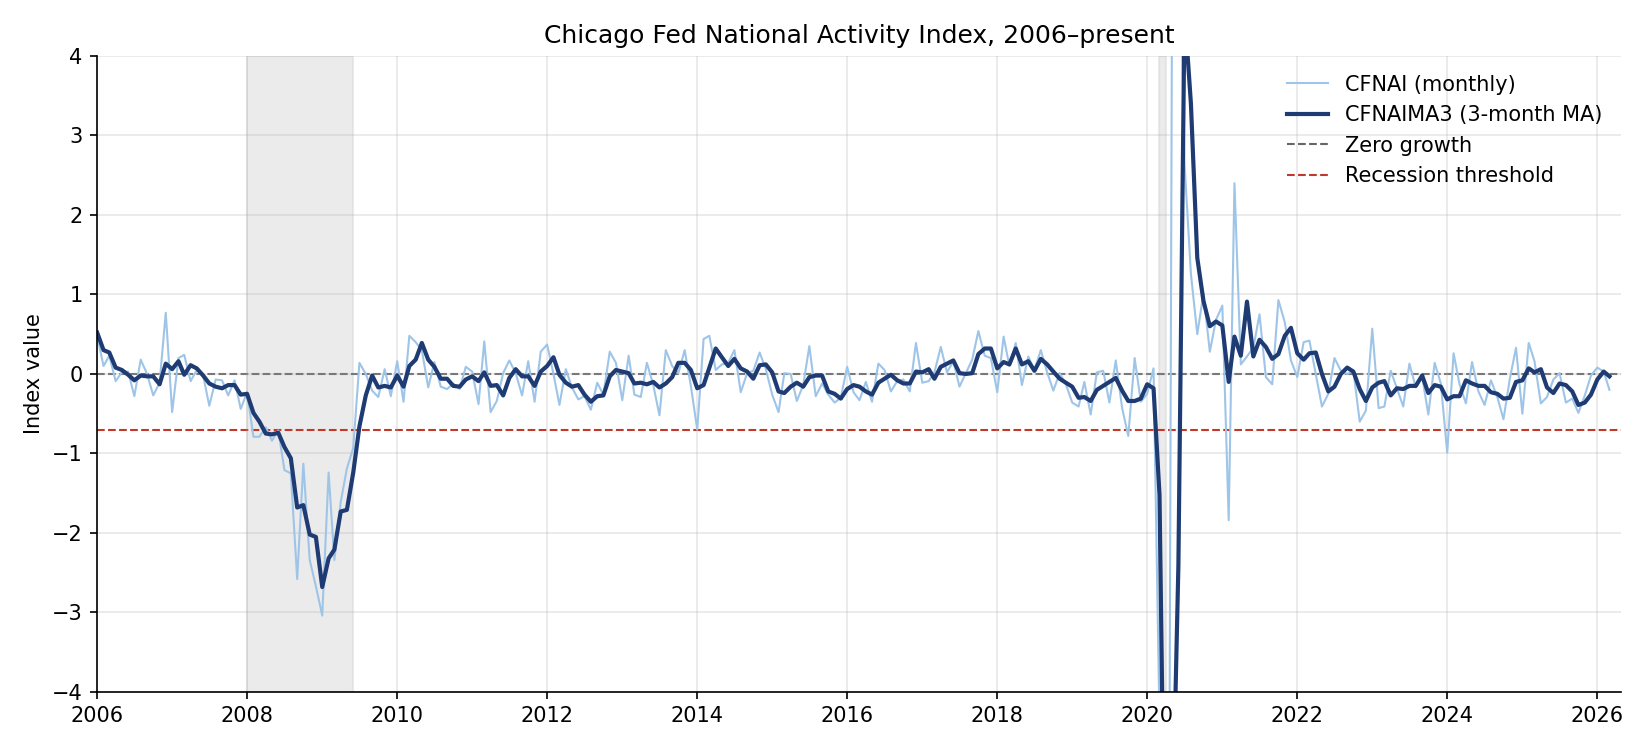
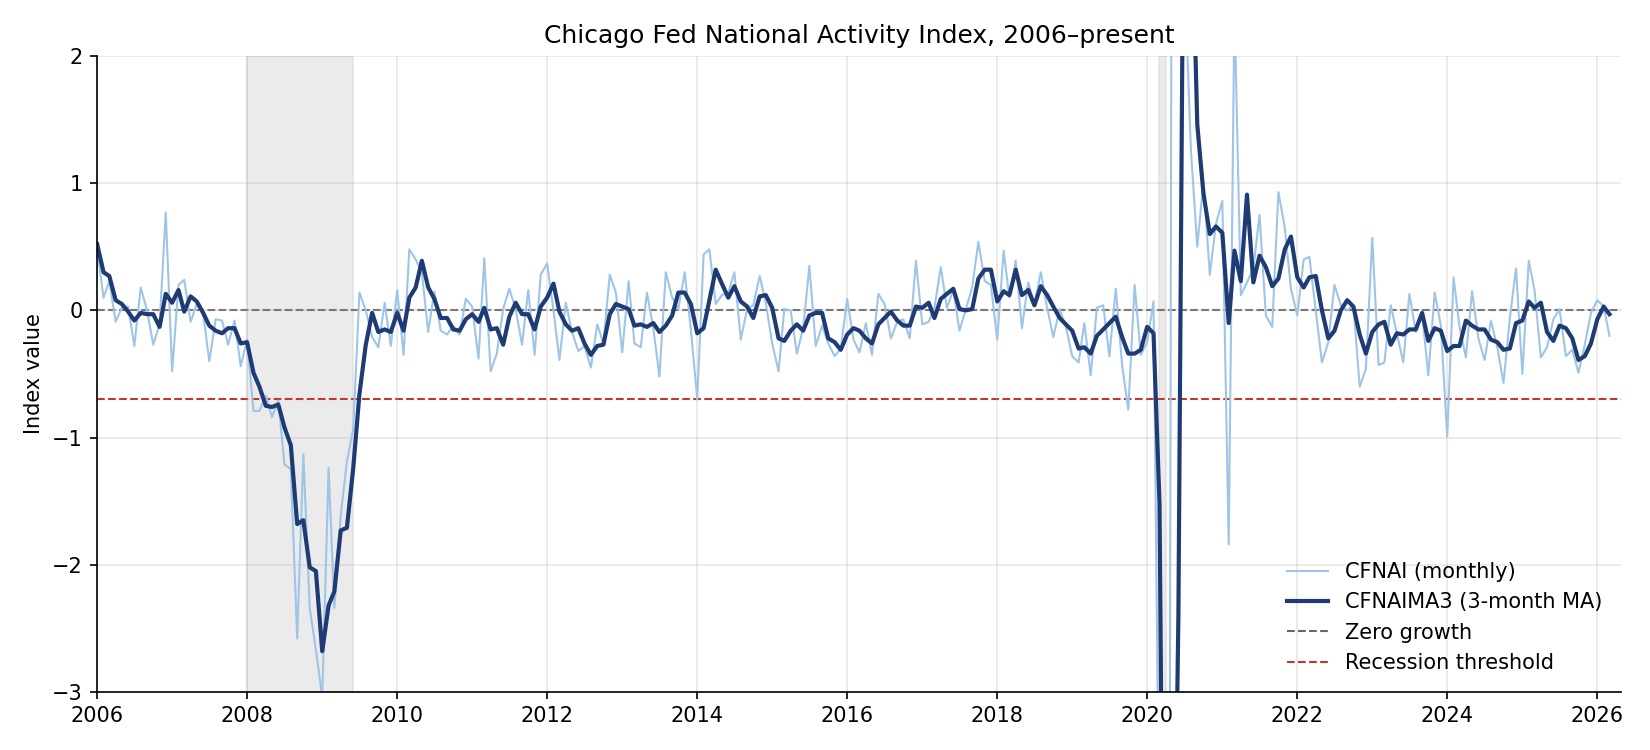
Tighten CFNAI y-axis to (-3, 2)
GFC trough at -2.7 still fits cleanly inside the frame; tightening from
(-4, 4) makes normal-cycle variation around zero more legible without
losing any structurally relevant feature.

diff --git a/macro/leading_indicators_pull.py b/macro/leading_indicators_pull.py
@@ -128,8 +128,10 @@ style_macro_chart(
     ax,
     title="Chicago Fed National Activity Index, 2006–present",
     ylabel="Index value",
-    # Clipped at +/-4 so COVID extremes run off-axis but normal cycle is readable.
-    ylim=(-4, 4),
+    # Tightened to (-3, 2) so the GFC trough still sits cleanly inside the
+    # frame while normal-cycle variation around zero is more legible. COVID
+    # extremes run off-axis as designed.
+    ylim=(-3, 2),
     recessions=recessions,
     hlines=[
         {"y": 0.0, "label": "Zero growth"},
